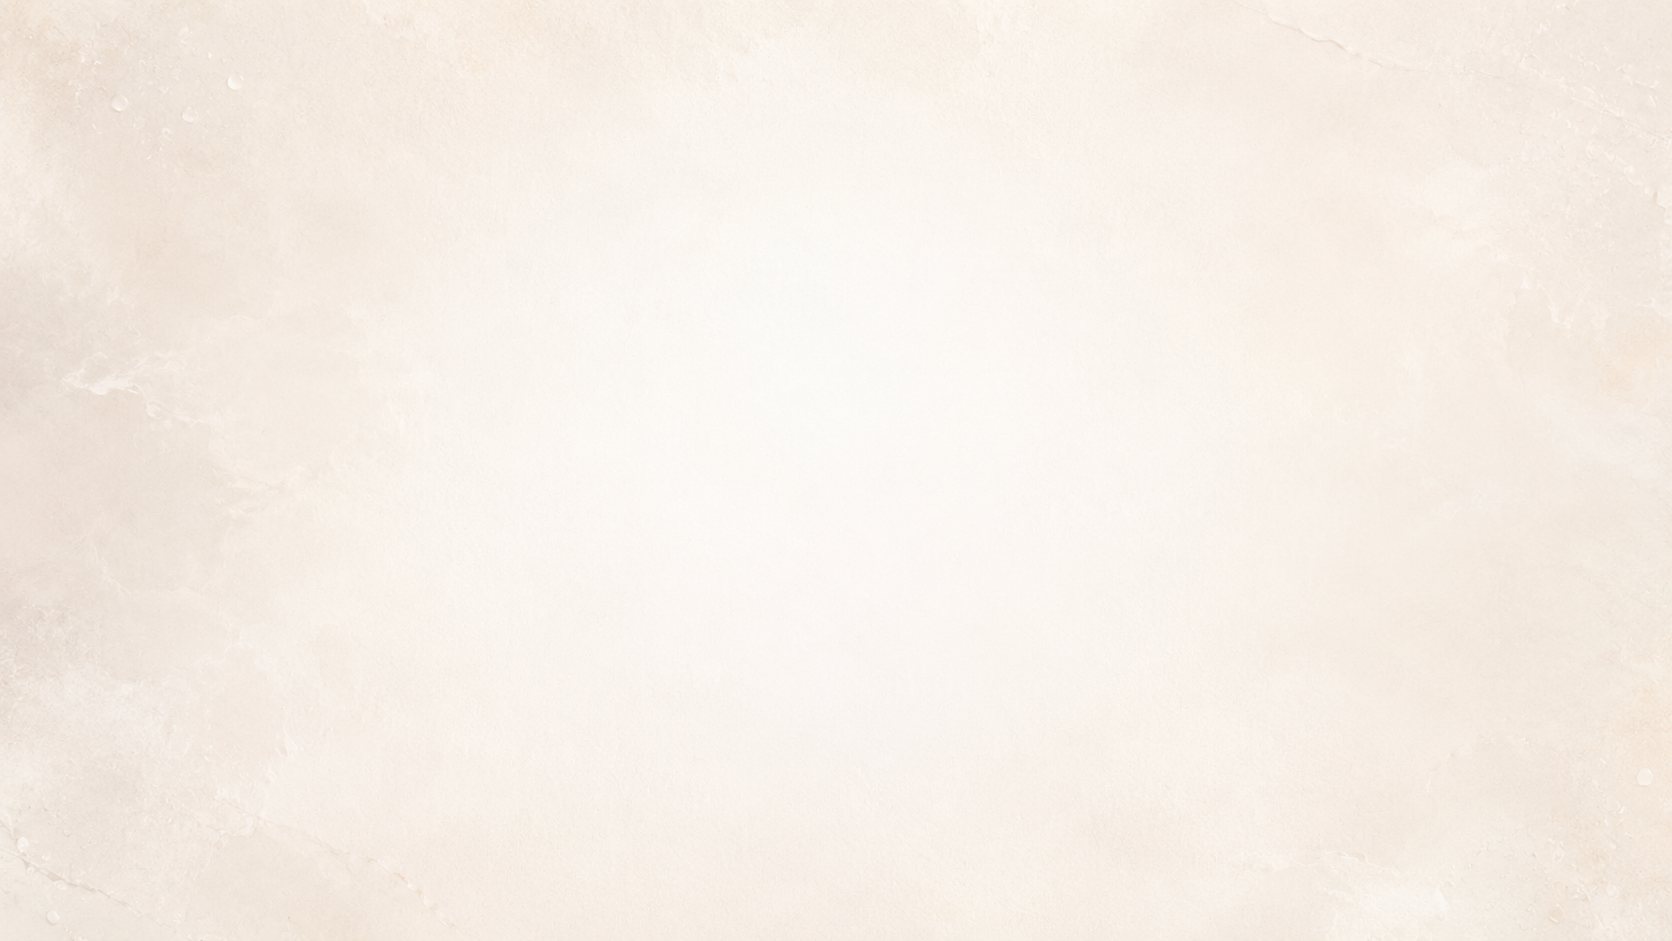
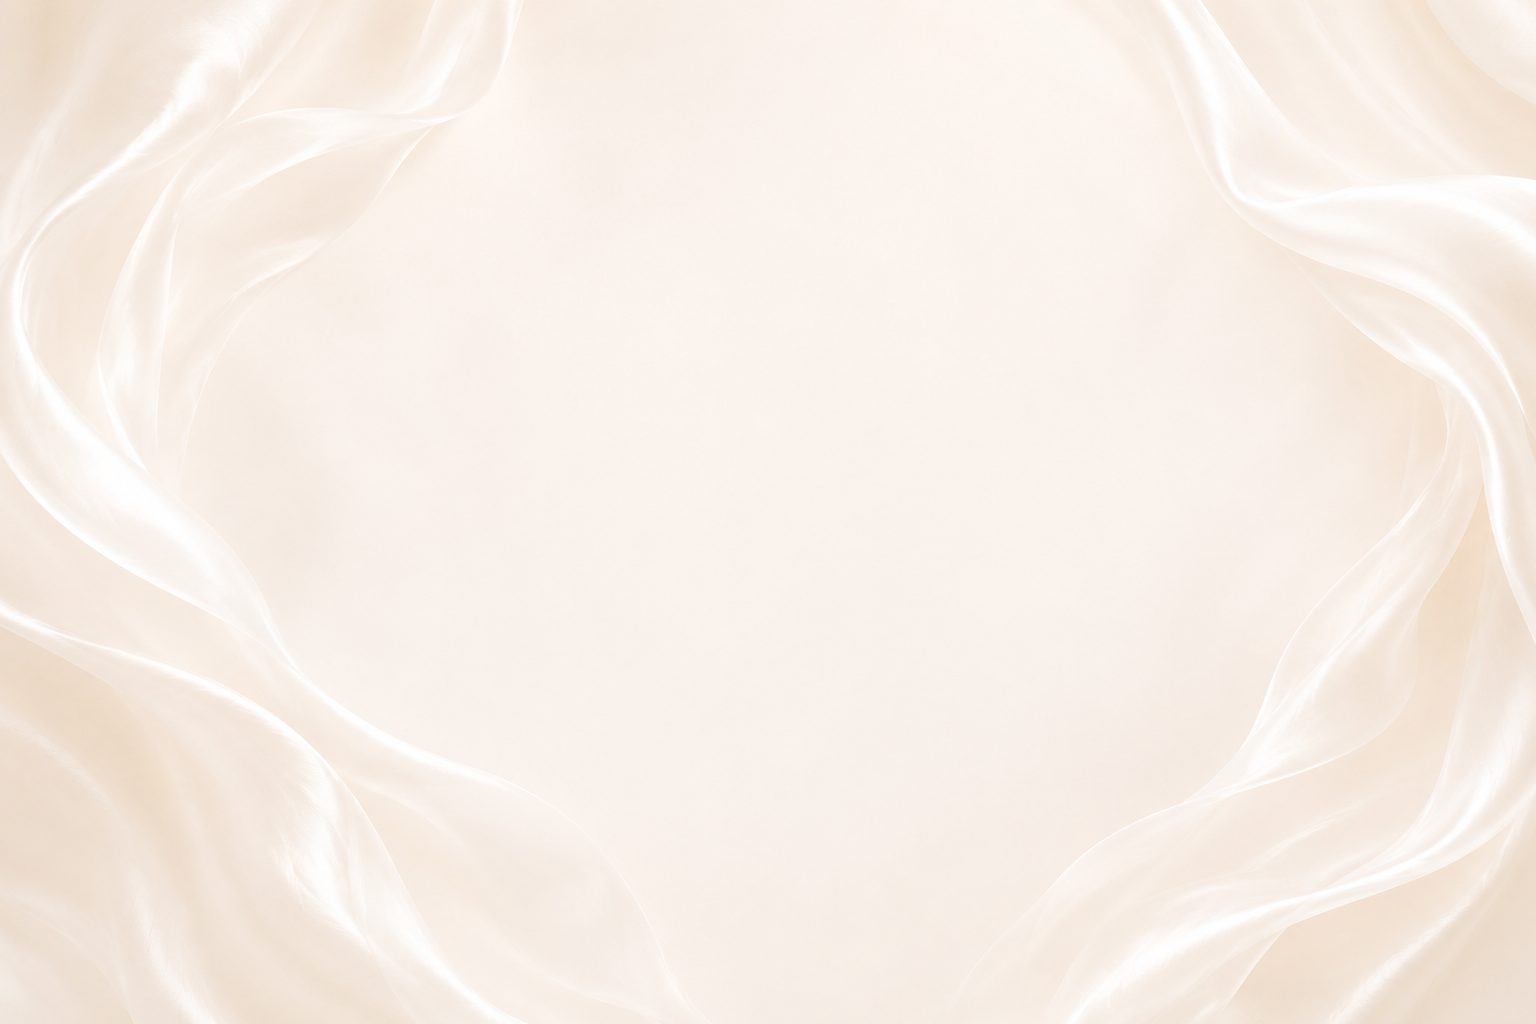
Ajoute la citation biblique animée et l'ouverture du bloc "Notre histoire"
- Bandeau blanc (nouvelle image) pour la citation biblique, retire le
  fort voile ivoire + halo qui assombrissait le fond
- Citation en Chopin script, révélée par un balayage lent (rideau qui
  s'ouvre, 5s) au passage à l'écran ; référence en texte basique,
  affichée après la citation
- Nouveau composant SectionCover réutilisable : image plein écran
  (hauteur du Hero) + titre/sous-titre, pour ouvrir chaque bloc à
  venir sans attendre le contenu détaillé
- Ajoute l'ouverture du bloc "Notre histoire" juste après la citation,
  avec la nouvelle image aux drapés d'angle, titre et sous-titre déjà
  définis dans la config
- Petit kicker "LA PROMESSE" ajouté sur la photo des mains pour garder
  les blocs déjà construits identifiables

Corrige au passage un bug d'animation : le conteneur observé par
l'IntersectionObserver de BibleVerse avait display:contents (aucune
boîte de rendu), ce qui empêchait l'observateur de jamais détecter
l'entrée dans le viewport.

diff --git a/src/components/invitation/BibleVerse/BibleVerse.module.css b/src/components/invitation/BibleVerse/BibleVerse.module.css
@@ -1,1 +1,69 @@
-.root{background:var(--ivory);background-image:linear-gradient(rgba(247,242,234,.84),rgba(247,242,234,.84)),var(--verse-bg);background-size:cover;background-position:center;padding:clamp(7rem,16vw,14rem) 0;text-align:center;color:var(--navy)}.root:before{content:"";position:absolute;inset:12% 8%;background:radial-gradient(circle,rgba(255,255,255,.8),transparent 65%);z-index:-1}.root blockquote{margin:0;display:grid;gap:2rem;justify-items:center}.root p{font:400 clamp(2rem,5vw,4rem)/1.35 var(--font-script);max-width:920px}.root cite{font:500 clamp(.7rem,1.2vw,.88rem)/1 var(--font-body);font-style:normal;letter-spacing:.2em;text-transform:uppercase;color:var(--champagne)}
+.root {
+  background: var(--ivory) var(--verse-bg) center / cover no-repeat;
+  padding: clamp(7rem, 16vw, 14rem) 0;
+  text-align: center;
+  color: var(--navy);
+}
+
+.stage {
+  display: block;
+}
+
+.quote {
+  margin: 0;
+  display: grid;
+  gap: clamp(1.4rem, 3.4vw, 2.2rem);
+  justify-items: center;
+}
+
+.text {
+  margin: 0;
+  max-width: 920px;
+}
+
+/* Effet "écrit au fur et à mesure" : un balayage lent, comme un rideau qui
+   s'ouvre sur la citation (même principe que les prénoms du Hero). */
+.textInk {
+  display: inline-block;
+  font: 400 clamp(2rem, 5vw, 4rem) / 1.35 var(--font-script);
+  clip-path: inset(-25% 100% -25% 0);
+}
+
+.inView .textInk {
+  animation: writeVerse 5s cubic-bezier(0.22, 0.61, 0.36, 1) 0.2s forwards;
+}
+
+@keyframes writeVerse {
+  to {
+    clip-path: inset(-25% 0% -25% 0);
+  }
+}
+
+.reference {
+  font: 500 clamp(0.7rem, 1.2vw, 0.88rem) / 1 var(--font-body);
+  font-style: normal;
+  letter-spacing: 0.2em;
+  text-transform: uppercase;
+  color: var(--champagne);
+  opacity: 0;
+}
+
+.inView .reference {
+  animation: fadeUpVerse 1s ease 4.6s forwards;
+}
+
+@keyframes fadeUpVerse {
+  from { opacity: 0; transform: translateY(10px); }
+  to { opacity: 1; transform: translateY(0); }
+}
+
+@media (prefers-reduced-motion: reduce) {
+  .textInk {
+    animation: none;
+    clip-path: none;
+  }
+  .reference {
+    animation: none;
+    opacity: 1;
+  }
+}

diff --git a/src/components/invitation/BibleVerse/BibleVerse.tsx b/src/components/invitation/BibleVerse/BibleVerse.tsx
@@ -1,3 +1,4 @@
+import { useEffect, useRef, useState } from 'react';
 import { useClient } from '../../../context/ClientContext';
 import { Section } from '../../layout/Section/Section';
 import { Container } from '../../layout/Container/Container';
@@ -6,6 +7,25 @@ import styles from './BibleVerse.module.css';
 export function BibleVerse({ verseIndex = 0 }: { verseIndex?: number }) {
   const { invitationConfig, mediaConfig } = useClient();
   const verse = invitationConfig.verses[verseIndex] ?? invitationConfig.verses[0];
+  const rootRef = useRef<HTMLDivElement | null>(null);
+  const [isInView, setIsInView] = useState(false);
+
+  useEffect(() => {
+    const node = rootRef.current;
+    if (!node) return;
+
+    const observer = new IntersectionObserver(
+      ([entry]) => {
+        if (entry.isIntersecting) {
+          setIsInView(true);
+          observer.disconnect();
+        }
+      },
+      { threshold: 0.4 },
+    );
+    observer.observe(node);
+    return () => observer.disconnect();
+  }, []);
 
   return (
     <Section
@@ -13,12 +33,16 @@ export function BibleVerse({ verseIndex = 0 }: { verseIndex?: number }) {
       className={styles.root}
       style={{ '--verse-bg': `url(${mediaConfig.verses.first})` } as React.CSSProperties}
     >
-      <Container>
-        <blockquote>
-          <p>« {verse.text} »</p>
-          <cite>{verse.reference}</cite>
-        </blockquote>
-      </Container>
+      <div ref={rootRef} className={`${styles.stage} ${isInView ? styles.inView : ''}`}>
+        <Container>
+          <blockquote className={styles.quote}>
+            <p className={styles.text}>
+              <span className={styles.textInk}>« {verse.text} »</span>
+            </p>
+            <cite className={styles.reference}>{verse.reference}</cite>
+          </blockquote>
+        </Container>
+      </div>
     </Section>
   );
 }

diff --git a/src/app/App.tsx b/src/app/App.tsx
@@ -6,6 +6,7 @@ import { EditorialBanner } from '../components/invitation/EditorialBanner/Editor
 import { HandsSection } from '../components/invitation/HandsSection/HandsSection';
 import { CountdownSection } from '../components/invitation/CountdownSection/CountdownSection';
 import { BibleVerse } from '../components/invitation/BibleVerse/BibleVerse';
+import { SectionCover } from '../components/invitation/SectionCover/SectionCover';
 import { StorySection } from '../components/invitation/StorySection/StorySection';
 import { CelebrationsIntro } from '../components/invitation/CelebrationsIntro/CelebrationsIntro';
 import { VenueSection } from '../components/invitation/VenueSection/VenueSection';
@@ -26,7 +27,7 @@ import { useClient } from '../context/ClientContext';
 const SHOW_SECTIONS_AFTER_HERO = false;
 
 export function App() {
-  const { venuesConfig, invitationConfig, mediaConfig } = useClient();
+  const { venuesConfig, invitationConfig, mediaConfig, storyConfig } = useClient();
   const hasSecondVerse = invitationConfig.verses.length > 1;
 
   return (
@@ -38,11 +39,12 @@ export function App() {
       <GoldDivider />
       <HandsSection />
       <SilkBand src={mediaConfig.hero.silkBlueIvory} />
+      <BibleVerse verseIndex={0} />
+      <SectionCover id="notre-histoire" src={mediaConfig.story.cover} title={storyConfig.title} subtitle={storyConfig.subtitle} />
       {SHOW_SECTIONS_AFTER_HERO && (
         <>
           <EditorialBanner />
           <CountdownSection />
-          <BibleVerse verseIndex={0} />
           <StorySection />
           <CelebrationsIntro />
           <VenueSection id="ceremonie-civile" venue={venuesConfig.civil} icon={<CivilVenueIcon />} tone="ivory" />

diff --git a/src/components/invitation/HandsSection/HandsSection.module.css b/src/components/invitation/HandsSection/HandsSection.module.css
@@ -1,1 +1,1 @@
-.root{min-height:clamp(420px,62vw,780px);display:grid;place-items:end center;background:var(--ivory)}.photo{position:absolute;inset:0;width:100%;height:100%;object-fit:cover;object-position:center 45%;animation:slowZoom 15s ease-in-out infinite alternate}.root p{position:relative;z-index:2;color:var(--ivory);font:italic clamp(1.15rem,2.6vw,1.8rem)/1.4 var(--font-display);text-align:center;padding:0 1.5rem clamp(3rem,8vw,6rem);text-shadow:0 1px 3px rgba(5,11,30,.85),0 0 10px rgba(5,11,30,.65),0 2px 14px rgba(5,11,30,.55)}@keyframes slowZoom{to{transform:scale(1.035)}}
+.root{min-height:clamp(420px,62vw,780px);display:grid;place-items:end center;background:var(--ivory)}.photo{position:absolute;inset:0;width:100%;height:100%;object-fit:cover;object-position:center 45%;animation:slowZoom 15s ease-in-out infinite alternate}.kicker{position:absolute;z-index:2;top:clamp(1.5rem,5vw,2.5rem);left:50%;transform:translateX(-50%);color:var(--ivory);font:500 clamp(.62rem,1.2vw,.82rem)/1 var(--font-body);letter-spacing:.34em;text-transform:uppercase;text-shadow:0 1px 3px rgba(5,11,30,.85),0 0 10px rgba(5,11,30,.65)}.root p{position:relative;z-index:2;color:var(--ivory);font:italic clamp(1.15rem,2.6vw,1.8rem)/1.4 var(--font-display);text-align:center;padding:0 1.5rem clamp(3rem,8vw,6rem);text-shadow:0 1px 3px rgba(5,11,30,.85),0 0 10px rgba(5,11,30,.65),0 2px 14px rgba(5,11,30,.55)}@keyframes slowZoom{to{transform:scale(1.035)}}

diff --git a/src/components/invitation/SectionCover/SectionCover.module.css b/src/components/invitation/SectionCover/SectionCover.module.css
@@ -1,0 +1,46 @@
+.root {
+  position: relative;
+  height: 100svh;
+  min-height: 560px;
+  overflow: hidden;
+  background: var(--ivory);
+}
+
+.image {
+  position: absolute;
+  inset: 0;
+  width: 100%;
+  height: 100%;
+  object-fit: cover;
+  object-position: center;
+  user-select: none;
+}
+
+.identity {
+  position: absolute;
+  z-index: 2;
+  left: 50%;
+  top: 50%;
+  width: min(88%, 760px);
+  transform: translate(-50%, -50%);
+  text-align: center;
+}
+
+.title {
+  margin: 0;
+  font-family: var(--font-display);
+  font-weight: 500;
+  font-size: clamp(2.8rem, 7vw, 5.2rem);
+  color: var(--navy);
+}
+
+.subtitle {
+  margin: 0.4rem 0 0;
+  font-family: var(--font-script);
+  font-size: clamp(2rem, 4.5vw, 3.6rem);
+  color: var(--champagne);
+}
+
+@media (max-width: 700px) {
+  .root { height: 88svh; }
+}

diff --git a/src/components/invitation/SectionCover/SectionCover.tsx b/src/components/invitation/SectionCover/SectionCover.tsx
@@ -1,0 +1,22 @@
+import { Section } from '../../layout/Section/Section';
+import styles from './SectionCover.module.css';
+
+type Props = {
+  id?: string;
+  src: string;
+  alt?: string;
+  title: string;
+  subtitle?: string;
+};
+
+export function SectionCover({ id, src, alt = '', title, subtitle }: Props) {
+  return (
+    <Section id={id} label={title} className={styles.root}>
+      <img className={styles.image} src={src} alt={alt} draggable={false} loading="lazy" />
+      <div className={styles.identity}>
+        <h2 className={styles.title}>{title}</h2>
+        {subtitle && <p className={styles.subtitle}>{subtitle}</p>}
+      </div>
+    </Section>
+  );
+}

diff --git a/src/components/invitation/HandsSection/HandsSection.tsx b/src/components/invitation/HandsSection/HandsSection.tsx
@@ -7,6 +7,7 @@ export function HandsSection() {
   return (
     <Section label="La promesse" className={styles.root}>
       <img className={styles.photo} src={mediaConfig.hands.photo} alt={invitationConfig.hands.photoAlt} loading="lazy" />
+      <span className={styles.kicker} aria-hidden="true">La promesse</span>
       <p>{invitationConfig.hands.caption}</p>
     </Section>
   );

diff --git a/src/clients/_template/media.config.ts b/src/clients/_template/media.config.ts
@@ -17,4 +17,5 @@ export const mediaConfig: MediaConfig = {
   hands: { photo: `${base}/photos/couple-hands.jpg` },
   countdown: { background: `${base}/backgrounds/countdown-night.png` },
   verses: { first: `${base}/backgrounds/verse-ivory.png` },
+  story: { cover: `${base}/backgrounds/story-cover.png` },
 };

diff --git a/src/types/media.types.ts b/src/types/media.types.ts
@@ -10,6 +10,7 @@ export type MediaConfig = {
   hands: { photo: string };
   countdown: { background: string };
   verses: { first: string };
+  story: { cover: string };
 };
 
 export type ThemeConfig = {

diff --git a/src/clients/maison-saidi/media.config.ts b/src/clients/maison-saidi/media.config.ts
@@ -24,4 +24,7 @@ export const mediaConfig: MediaConfig = {
   verses: {
     first: `${base}/backgrounds/verse-ivory.png`,
   },
+  story: {
+    cover: `${base}/backgrounds/story-cover.png`,
+  },
 };
